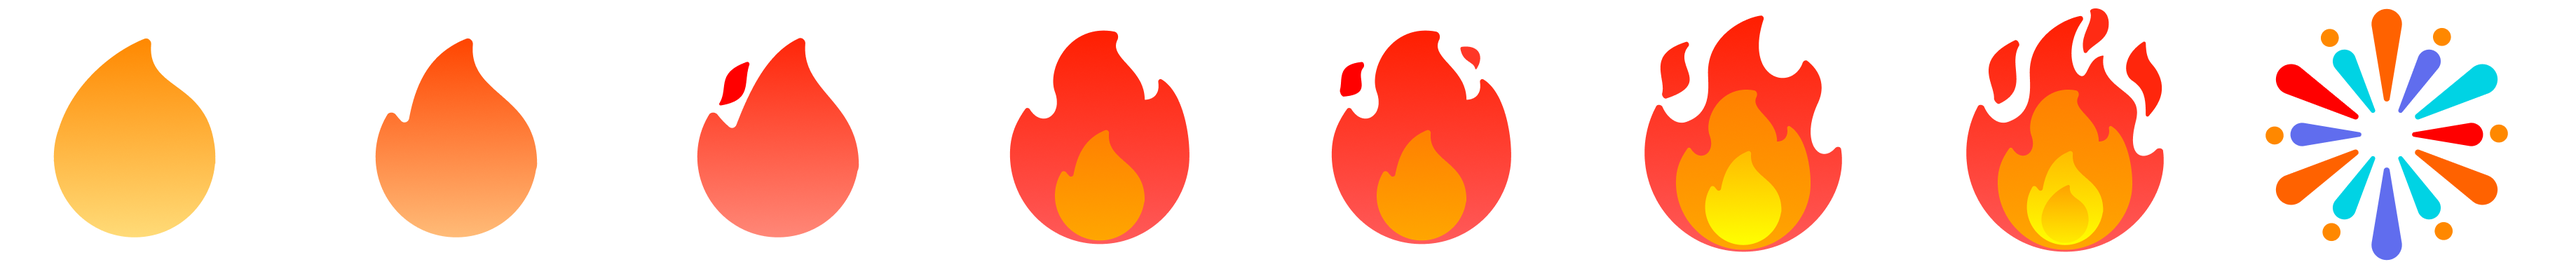
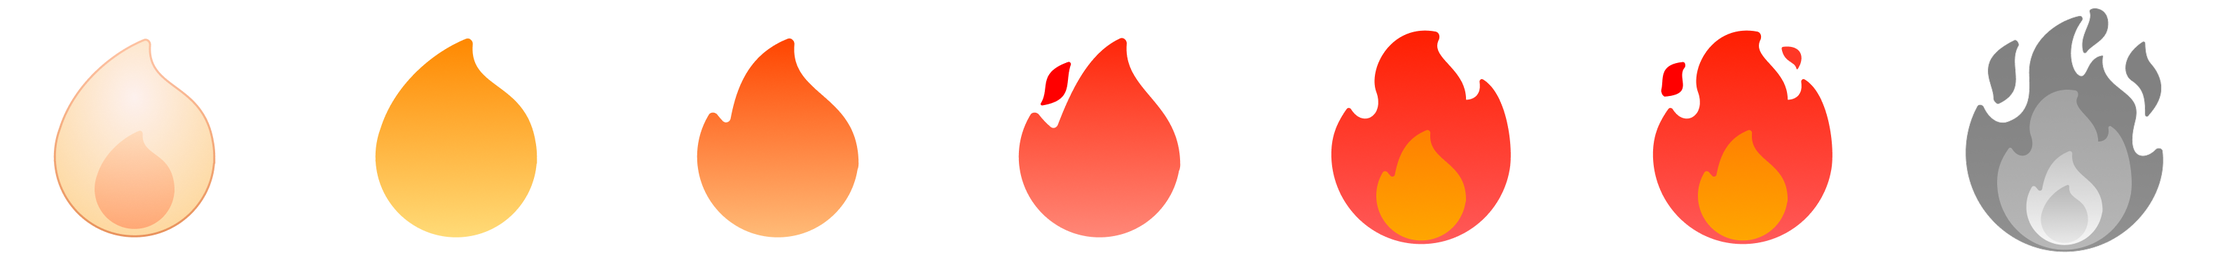
Update work overview artwork

diff --git a/app/globals.css b/app/globals.css
@@ -178,6 +178,7 @@ img { display:block; max-width:100%; }
 .node-title-row { display:flex; flex-wrap:wrap; align-items:center; gap:var(--sp-2); margin-top:var(--sp-3); }
 .node-title-row h4 { margin:0; }.project-node-main>p { margin-top:var(--sp-2); }
 .fire-level-art { width:100%; height:42px; margin-top:var(--sp-3); object-fit:contain; object-position:left center; }
+.invite-bar-art { width:100%; height:60px; margin-top:var(--sp-3); object-fit:contain; object-position:left center; }
 .project-node-main>.node-action { margin-top:auto; padding-top:var(--sp-4); border-top:1px solid var(--border-hairline); color:var(--tone); font-weight:500; }
 .project-node .node-priority { color:var(--tone); background:var(--tone-soft); border-color:var(--tone-line); }
 .work-metrics { display:grid; grid-template-columns:1fr; gap:var(--sp-2); width:100%; min-width:0; margin:var(--sp-4) 0; }
@@ -229,6 +230,7 @@ img { display:block; max-width:100%; }
   .node-title-row { gap:clamp(6px,.7vw,10px); margin-top:clamp(5px,.8vh,9px); }
   .project-node-main>p { margin-top:clamp(5px,.8vh,9px); }
   .fire-level-art { height:clamp(34px,5vh,42px); margin-top:clamp(7px,1.1vh,11px); }
+  .invite-bar-art { height:clamp(44px,6.5vh,58px); margin-top:clamp(7px,1.1vh,11px); }
   .project-node-main .work-metrics { grid-template-columns:1fr; gap:clamp(6px,.8vh,10px); margin:clamp(7px,1.2vh,11px) 0; }
   .work-metrics>div { padding:clamp(7px,1vh,11px) clamp(12px,1.2vw,18px); }
   .metric-bar { margin-top:clamp(7px,1vh,10px)!important; }

diff --git a/app/components/WorkExplorer.tsx b/app/components/WorkExplorer.tsx
@@ -116,7 +116,9 @@ export function WorkExplorer() {
             <div className="branch-title"><span className="t-overline tnum">02 / Acquisition</span><h3 className="t-title-2">拉新：</h3><p className="t-body-sm">拓展新增来源</p></div>
             <div className="branch-content single-branch-content">
               <button className={`project-node project-node-main tone-${invite.tone}`} type="button" onClick={() => toggleProject(invite.id)} aria-controls="work-detail">
-                <div className="node-title-row"><h4 className="t-title-2">{invite.title}</h4><span className="node-priority t-caption">增长项目</span></div><p className="t-body-sm">{invite.subtitle}</p><MetricStrip metrics={invite.metrics} /><span className="node-action t-body-sm">展开项目复盘 <b aria-hidden="true">→</b></span>
+                <div className="node-title-row"><h4 className="t-title-2">{invite.title}</h4><span className="node-priority t-caption">增长项目</span></div><p className="t-body-sm">{invite.subtitle}</p>
+                <img className="invite-bar-art" src="/qqpet-invite-bar.png" alt="邀请奖励活动栏：限时邀请好友领养并获得奖励" />
+                <MetricStrip metrics={invite.metrics} /><span className="node-action t-body-sm">展开项目复盘 <b aria-hidden="true">→</b></span>
               </button>
             </div>
           </article>
